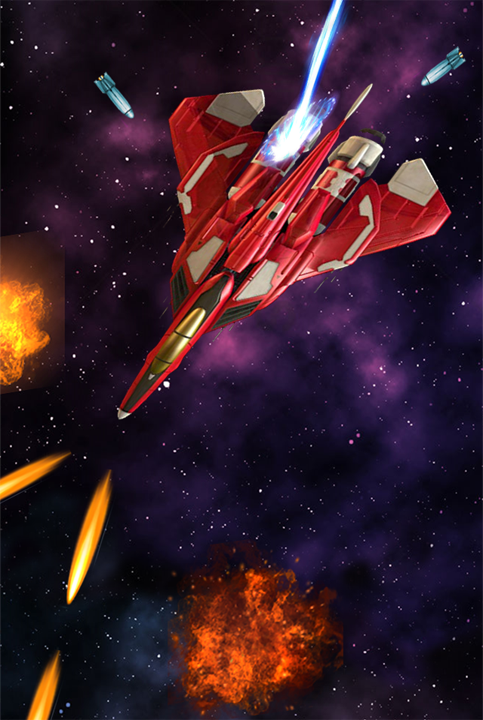
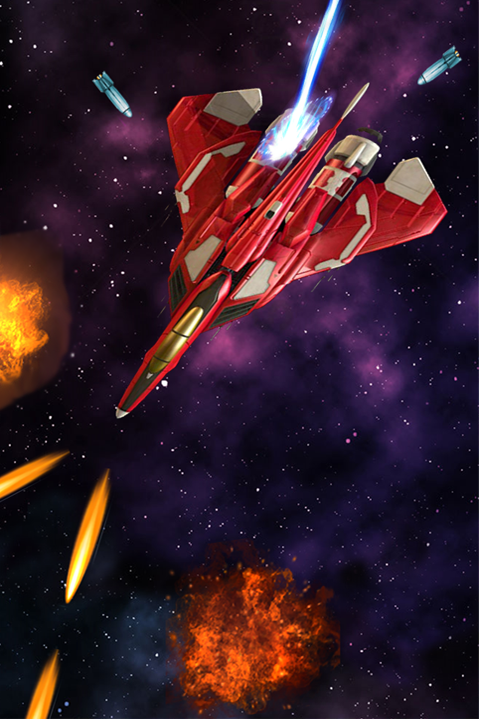
update background and GamingPage (fixed "EngPage does not display")

diff --git a/src/world/pages/GamingPage.java b/src/world/pages/GamingPage.java
@@ -14,6 +14,7 @@ import java.nio.file.Paths;
 import static java.lang.Thread.sleep;
 import static raidenObjects.BaseRaidenObject.loadImage;
 import static utils.GameMode.SURVIVAL;
+import static utils.PageStatus.END;
 import static utils.PageStatus.VICTORY;
 import static utils.PlayerNumber.TWO;
 import static world.World.*;
@@ -136,6 +137,13 @@ public class GamingPage implements Page {
         gameSpeedAdjusterTimer.start();
         while (player1 != null || player2 != null) {
             if (musicPlayer.isEndOfMediaReached()) {
+                if (gameMode == SURVIVAL) {
+                    System.out.println("Victory!");
+                    musicPlayer.stop();
+                    gameSpeedAdjusterTimer.stop();
+                    pageStatus = VICTORY;
+                    return;
+                }
                 musicPlayer.seek(0);
                 musicPlayer.play();
             }
@@ -167,18 +175,11 @@ public class GamingPage implements Page {
             sleep(msToSleepAtEachGameStep);
 
             gameStep.increment();
-            if (gameMode == SURVIVAL && gameStep.intValue() >= desiredFPS * survivalModeSeconds) {
-                System.out.println("Victory!");
-                musicPlayer.stop();
-                gameSpeedAdjusterTimer.stop();
-                pageStatus = VICTORY;
-                return;
-            }
         }
         System.out.println("Game over");
         musicPlayer.stop();
         gameSpeedAdjusterTimer.stop();
-        //pageStatus = END;
+        pageStatus = END;
 	}
 
 	/**
